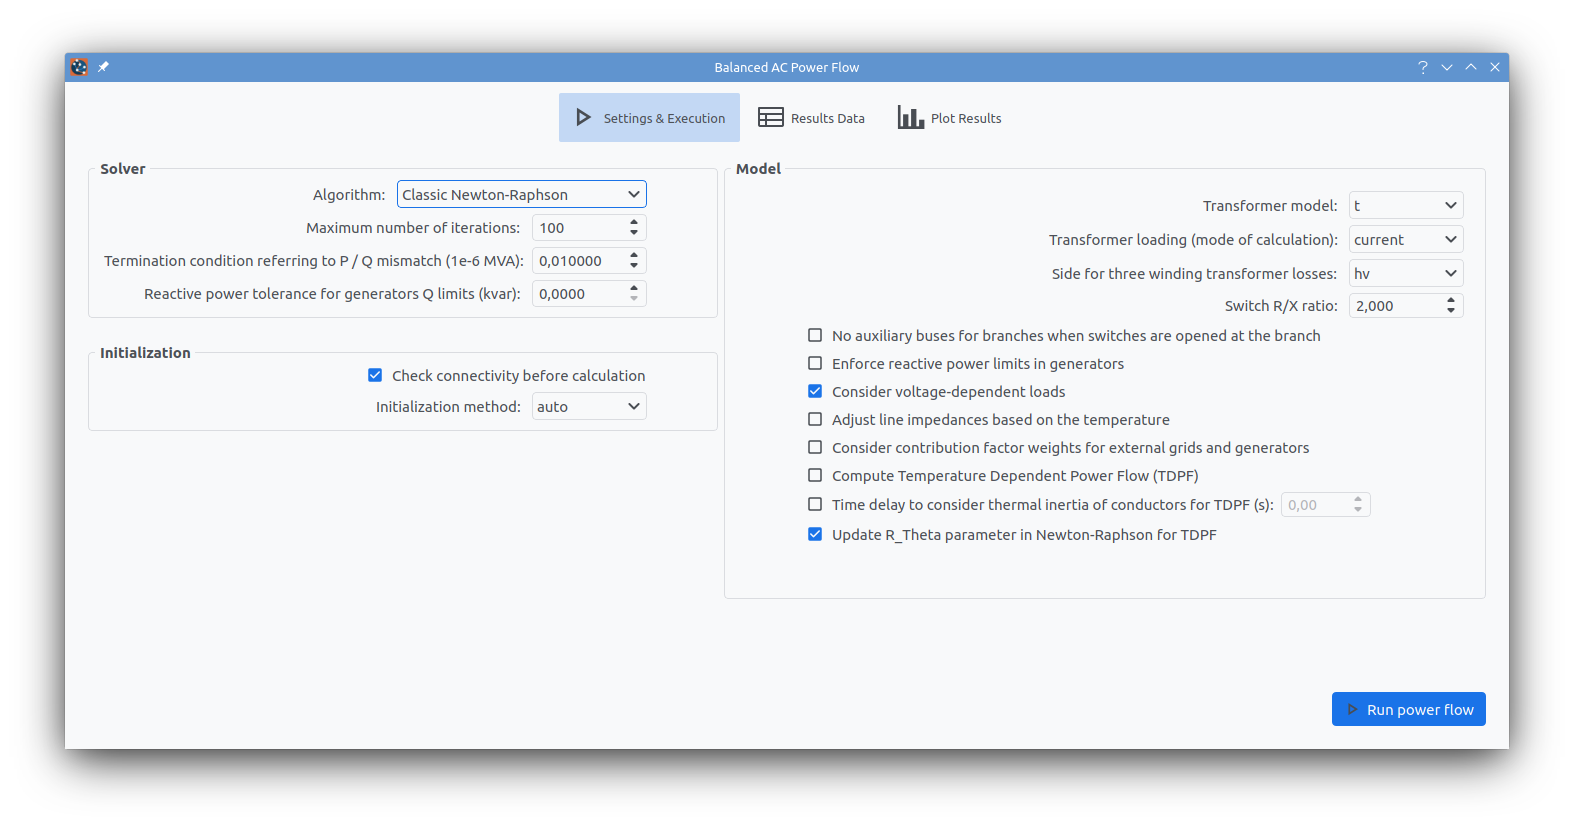
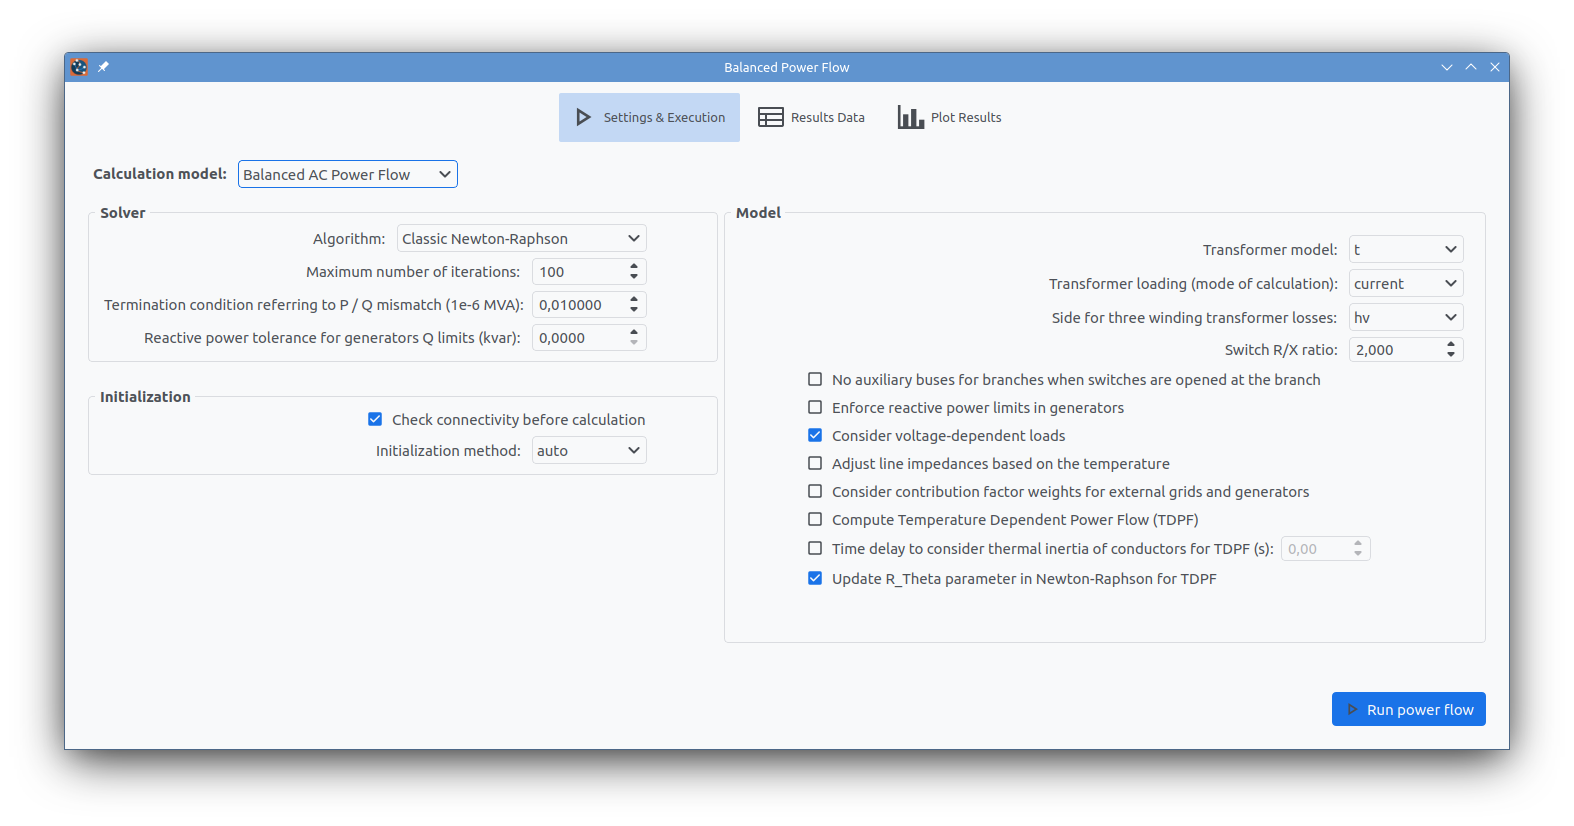
DCPF support

diff --git a/src/electricalsim/ui/dialogs.py b/src/electricalsim/ui/dialogs.py
@@ -1310,14 +1310,15 @@ class WorkerSignals(QtCore.QObject):
 
 class Power_Flow_Dialog(QtWidgets.QDialog):
     """
-    Balanced AC Power Flow dialog.
-    
-    * net: Pandapower network
-    * settings: Default settings for ACPF calculation
-    * session_change_warning: session_change_warning() funtion from the graph
-    * theme: color theme setting between 'light', 'dark' and 'auto'
+    Balanced Power Flow dialog, including ACPF and DCPF.
     """
     def __init__(self, net, settings, session_change_warning, theme):
+        """   
+        net: Pandapower network
+        settings: Default settings for ACPF calculation
+        session_change_warning: session_change_warning() funtion from the graph
+        theme: color theme setting between 'light', 'dark' and 'auto'
+        """
         self.net = net
         self.settings = settings
         self.session_change_warning = session_change_warning
@@ -1399,6 +1400,9 @@ class Power_Flow_Dialog(QtWidgets.QDialog):
         self.plot_results.clicked.connect(lambda : self.change_page(2))
         
         self.w.layout_upper_toolbar.addStretch()
+
+        # Calculation model:
+        self.w.comboBox_model.currentIndexChanged.connect(self.model_calculation_change)
         
         self.load_dataframes()
         self.build_plots_page()
@@ -1428,6 +1432,29 @@ class Power_Flow_Dialog(QtWidgets.QDialog):
         self.executor = ThreadPoolExecutor(max_workers=1)
         self.signals = WorkerSignals()
         self.signals.calculation_done.connect(self.pf_calculation_ended)
+
+    def model_calculation_change(self, i: int):
+        """
+        Executed when the model calculation is changed from the combobox.
+
+        i = 0 if Balanced AC Power Flow is selected (delfault).
+        i = 1 if DC Power Flow is selected.
+        """
+        enabling = True if i==0 else False
+
+        self.w.algorithm.setEnabled(enabling)
+        self.w.max_iteration.setEnabled(enabling)
+        self.w.tolerance_mva.setEnabled(enabling)
+        self.w.delta_q.setEnabled(enabling)
+        self.w.init.setEnabled(enabling)
+        self.w.neglect_open_switch_branches.setEnabled(enabling)
+        self.w.enforce_q_lims.setEnabled(enabling)
+        self.w.voltage_depend_loads.setEnabled(enabling)
+        self.w.consider_line_temperature.setEnabled(enabling)
+        self.w.distributed_slack.setEnabled(enabling)
+        self.w.tdpf.setEnabled(enabling)
+        self.w.tdpf_delay_s_check.setEnabled(enabling)
+        self.w.tdpf_update_r_theta.setEnabled(enabling)
         
     def load_settings(self):
         """
@@ -1828,7 +1855,7 @@ class Power_Flow_Dialog(QtWidgets.QDialog):
         
     def run_pf(self):
         """
-        Run the ACPF calculation.
+        Run an ACPF or DCPF calculation.
         """
         if self.net.ext_grid.empty:
             title = 'No slack bus!'
@@ -1847,25 +1874,34 @@ class Power_Flow_Dialog(QtWidgets.QDialog):
                 tdpf_delay_s = None
             
             try:
-                pp.runpp(self.net,
-                    algorithm=self.methods[self.w.algorithm.currentIndex()],
-                    max_iteration=self.w.max_iteration.value(),
-                    tolerance_mva=self.w.tolerance_mva.value() * 1e-6,
-                    delta_q=self.w.delta_q.value(),
-                    check_connectivity=self.w.check_connectivity.isChecked(),
-                    init=self.w.init.currentText(),
-                    trafo_model=self.w.trafo_model.currentText(),
-                    trafo_loading=self.w.trafo_loading.currentText(),
-                    trafo3w_losses=self.w.trafo3w_losses.currentText(),
-                    switch_rx_ratio=self.w.switch_rx_ratio.value(),
-                    neglect_open_switch_branches=self.w.neglect_open_switch_branches.isChecked(),
-                    enforce_q_lims=self.w.enforce_q_lims.isChecked(),
-                    voltage_depend_loads=self.w.voltage_depend_loads.isChecked(),
-                    consider_line_temperature=self.w.consider_line_temperature.isChecked(),
-                    distributed_slack=self.w.distributed_slack.isChecked(),
-                    tdpf=self.w.tdpf.isChecked(),
-                    tdpf_delay_s=tdpf_delay_s,
-                    tdpf_update_r_theta=self.w.tdpf_update_r_theta.isChecked())
+                if self.w.comboBox_model.currentIndex()==0:
+                    pp.runpp(self.net,
+                        algorithm=self.methods[self.w.algorithm.currentIndex()],
+                        max_iteration=self.w.max_iteration.value(),
+                        tolerance_mva=self.w.tolerance_mva.value() * 1e-6,
+                        delta_q=self.w.delta_q.value(),
+                        check_connectivity=self.w.check_connectivity.isChecked(),
+                        init=self.w.init.currentText(),
+                        trafo_model=self.w.trafo_model.currentText(),
+                        trafo_loading=self.w.trafo_loading.currentText(),
+                        trafo3w_losses=self.w.trafo3w_losses.currentText(),
+                        switch_rx_ratio=self.w.switch_rx_ratio.value(),
+                        neglect_open_switch_branches=self.w.neglect_open_switch_branches.isChecked(),
+                        enforce_q_lims=self.w.enforce_q_lims.isChecked(),
+                        voltage_depend_loads=self.w.voltage_depend_loads.isChecked(),
+                        consider_line_temperature=self.w.consider_line_temperature.isChecked(),
+                        distributed_slack=self.w.distributed_slack.isChecked(),
+                        tdpf=self.w.tdpf.isChecked(),
+                        tdpf_delay_s=tdpf_delay_s,
+                        tdpf_update_r_theta=self.w.tdpf_update_r_theta.isChecked())
+                
+                elif self.w.comboBox_model.currentIndex()==1:
+                    pp.rundcpp(self.net,
+                               trafo_model=self.w.trafo_model.currentText(),
+                               trafo_loading=self.w.trafo_loading.currentText(),
+                               check_connectivity=self.w.check_connectivity.isChecked(),
+                               switch_rx_ratio=self.w.switch_rx_ratio.value(),
+                               trafo3w_losses=self.w.trafo3w_losses.currentText())
 
                 if self.net.converged:
                     return 'success'
@@ -2131,22 +2167,22 @@ class Power_Flow_Dialog(QtWidgets.QDialog):
         self.plot()
 
         
-
 class Settings_Dialog:
     """
-    Returns the settings dialog.
-    
-    * main_window: Main window of the application (parent)
-    * config: Config parser with all the settings
-    * dataframe_line_stds: pandas DataFrame with standard line parameters, obtained
-                    with pp.available_std_types(self.net, 'line')
-    * dataframe_trafo_stds: pandas DataFrame with standard 2W-transformer parameters, obtained
-                    with pp.available_std_types(self.net, 'trafo')
-    * dataframe_trafo3w_stds: pandas DataFrame with standard 2W-transformer parameters, obtained
-                    with pp.available_std_types(self.net, 'trafo3w')
+    The settings dialog.
     """
     def __init__(self, main_window, config, dataframe_line_stds,
                  dataframe_trafo_stds, dataframe_trafo3w_stds):
+        """
+        main_window: Main window of the application (parent)
+        config: Config parser with all the settings
+        dataframe_line_stds: pandas DataFrame with standard line parameters,
+                             obtained with pp.available_std_types(self.net, 'line')
+        dataframe_trafo_stds: pandas DataFrame with standard 2W-transformer parameters,
+                              obtained with pp.available_std_types(self.net, 'trafo')
+        dataframe_trafo3w_stds: pandas DataFrame with standard 2W-transformer parameters,
+                                obtained with pp.available_std_types(self.net, 'trafo3w')
+        """
         self.main_window = main_window
         self.config = config
         self.dataframe_line_stds = dataframe_line_stds
@@ -2210,7 +2246,7 @@ class Settings_Dialog:
         layout_network.addStretch()
         self.dialog.page_network.setLayout(layout_network)
         
-        # Balanced AC Power Flow page--------------------------------------
+        # Balanced Power Flow page-----------------------------------------
         ui_file_pf = os.path.join(directory, 'pf_settings_widget.ui')
         ui_file_ = QtCore.QFile(ui_file_pf)
         ui_file_.open(QtCore.QIODeviceBase.OpenModeFlag.ReadOnly)
@@ -3268,7 +3304,7 @@ class Settings_Dialog:
             self.config['network']['sn_mva'] = str(network.sn_mva.value())
             self.config['network']['f_hz'] = str(network.f_hz.value())
             
-            # Balanced AC Power Flow page--------------------------------------------
+            # Balanced Power Flow page-----------------------------------------------
             self.config['pf']['algorithm'] = methods[pf.algorithm.currentIndex()]
             self.config['pf']['max_iteration'] = str(pf.max_iteration.value())
             self.config['pf']['tolerance_mva'] = str(pf.tolerance_mva.value())
@@ -3605,7 +3641,7 @@ class Settings_Dialog:
         Build the list view panels.
         """
         # First ListView-----------------------------------------------------------
-        list_view1_options = ['General', 'Network (defaults)', 'Balanced AC Power Flow (defaults)']
+        list_view1_options = ['General', 'Network (defaults)', 'Balanced Power Flow (defaults)']
         model_view1 = QtGui.QStandardItemModel()
         self.dialog.listView_main.setModel(model_view1)
         for name in list_view1_options:

diff --git a/src/electricalsim/Electrical_Grid_Simulator.py b/src/electricalsim/Electrical_Grid_Simulator.py
@@ -310,7 +310,7 @@ def main():
     main_window.layout_upper_toolbar.addWidget(QVLine())  # separator
     
     run_pf_btn = QtWidgets.QToolButton(main_window)
-    run_pf_btn.setToolTip('Balanced AC power flow')
+    run_pf_btn.setToolTip('Balanced power flow (ACPF / DCPF)')
     run_pf_btn.setIconSize(icon_size)
     run_pf_btn.setIcon(qta.icon('mdi6.play-outline'))
     main_window.layout_upper_toolbar.addWidget(run_pf_btn)

diff --git a/src/electricalsim/version.py b/src/electricalsim/version.py
@@ -17,6 +17,6 @@ else:
     except PackageNotFoundError:
         VERSION = 'development version'
 
-DATE = '2024-02-13'
+DATE = '2024-02-14'
 AUTHOR = 'Dr. Ing. Ariel S. Loyarte'
 CONTACT = 'aloyarte@frsf.utn.edu.ar'

diff --git a/README.md b/README.md
@@ -112,7 +112,7 @@ The distinction between input and output ports has another use in certain compon
 When a bus node is added to the **Graph**, it is immediately inserted also into the **Data model**. But this is not the case with other components, which are included in the **Data model** only when they are connected. This behavior is due to the fact that ```pandapower``` requires the connection points to insert a new element into the grid (with the only exception of the bus component). But this has an advantage: you can disconnect an element and connect it again in a different place, without losing the parameters configured in the node, which remain stored in the **Graph**. EGS will take care of maintaining the synchronization with the **Data model**.
 
 ### Simulations and calculations
-With EGS you can build and set up the model of an electrical grid in a graphical way. The application also allows you to perform *AC balanced power flow* calculations (other calculations supported by ```pandapower``` may be added in the future). For other types of simulations and calculations, you can proceed according to two alternatives:
+With EGS you can build and set up the model of an electrical grid in a graphical way. The application also allows you to perform a *balanced power flow* calculations (other calculations supported by ```pandapower``` may be added in the future), including a *Balanced Altern Current Power Flow (ACPF)* and a *Direct Current Power Flow (DCPF)*. For other types of simulations and calculations, you can proceed according to two alternatives:
 
 1. Export the **Data model** and the last power flow results to a JSON, MS Excel or binary file (using the `pickle` module) ready to be imported from a Python script through ```pandapower```. Then, any calculation or processing can be done from the script. The export is done from the graphical interface, while the subsequent import is done as indicated [in the pandapower documentation](https://pandapower.readthedocs.io/en/latest/file_io.html#save-and-load-networks), using one of the fuctions: `pandapower.from_json()`, `pandapower.from_excel()` or `pandapower.from_pickle()`.
 
@@ -121,7 +121,7 @@ With EGS you can build and set up the model of an electrical grid in a graphical
 Models generated by EGS can be saved in a file containing both the **Graph** and the **Data model** (**.egs** file extension). You can then reopen the file whenever you need it and retrieve even the results of the last power flow run.
 
 
-### Running an AC balanced power flow
+### Running a balanced power flow (ACPF or DCPF)
 In order to run a power flow, click on the ***play*** button at the upper toolbar. A new dialog gets opened. The first tab allows you to configure the parameters of the numerical method (solver) and other model settings. Then, execute the calculation using the ***Run power flow*** button.
 
 ![Power flow dialog - First tab (settings)](img/7_PF1.png)
@@ -180,7 +180,7 @@ Settings are classified into four categories:
 
 * **Network:** Defaults grid name, power system base and rated frequency.
 
-* **Power flow**: Mainly the default settings for the power flow solver.
+* **Balanced power flow**: Mainly the default settings for the power flow solver.
 
 * **Default component parameters:** The defaults settings for every node type.
 

diff --git a/README_PyPI.md b/README_PyPI.md
@@ -30,7 +30,7 @@ EGS is implemented as a Python package uploaded to the [PyPI repository](https:/
 > Starting with version **0.0.8.0**, the EGS package includes a fork of `NodeGraphQt` ported to `Qt6` (using the `PySide6` library). This implementation is renamed to `NodeGraphQt6` in order to avoid conflicts. These changes allow the application to run on recent versions of Python.
 
 ## Simulations and calculations
-With EGS you can build and set up the model of an electrical grid in a graphical way. The application also allows you to perform *AC balanced power flow* calculations (other calculations supported by ```pandapower``` may be added in the future). For other types of simulations and calculations, you can proceed according to two alternatives:
+With EGS you can build and set up the model of an electrical grid in a graphical way. The application also allows you to perform a *balanced power flow* calculations (other calculations supported by ```pandapower``` may be added in the future), including a *Balanced Altern Current Power Flow (ACPF)* and a *Direct Current Power Flow (DCPF)*. For other types of simulations and calculations, you can proceed according to two alternatives:
 
 1. Export the **Data model** and the last power flow results to a JSON, MS Excel or binary file (using the `pickle` module) ready to be imported from a Python script through ```pandapower```. Then, any calculation or processing can be done from the script. The export is done from the graphical interface, while the subsequent import is done as indicated [in the pandapower documentation](https://pandapower.readthedocs.io/en/latest/file_io.html#save-and-load-networks), using one of the fuctions: `pandapower.from_json()`, `pandapower.from_excel()` or `pandapower.from_pickle()`.
 
